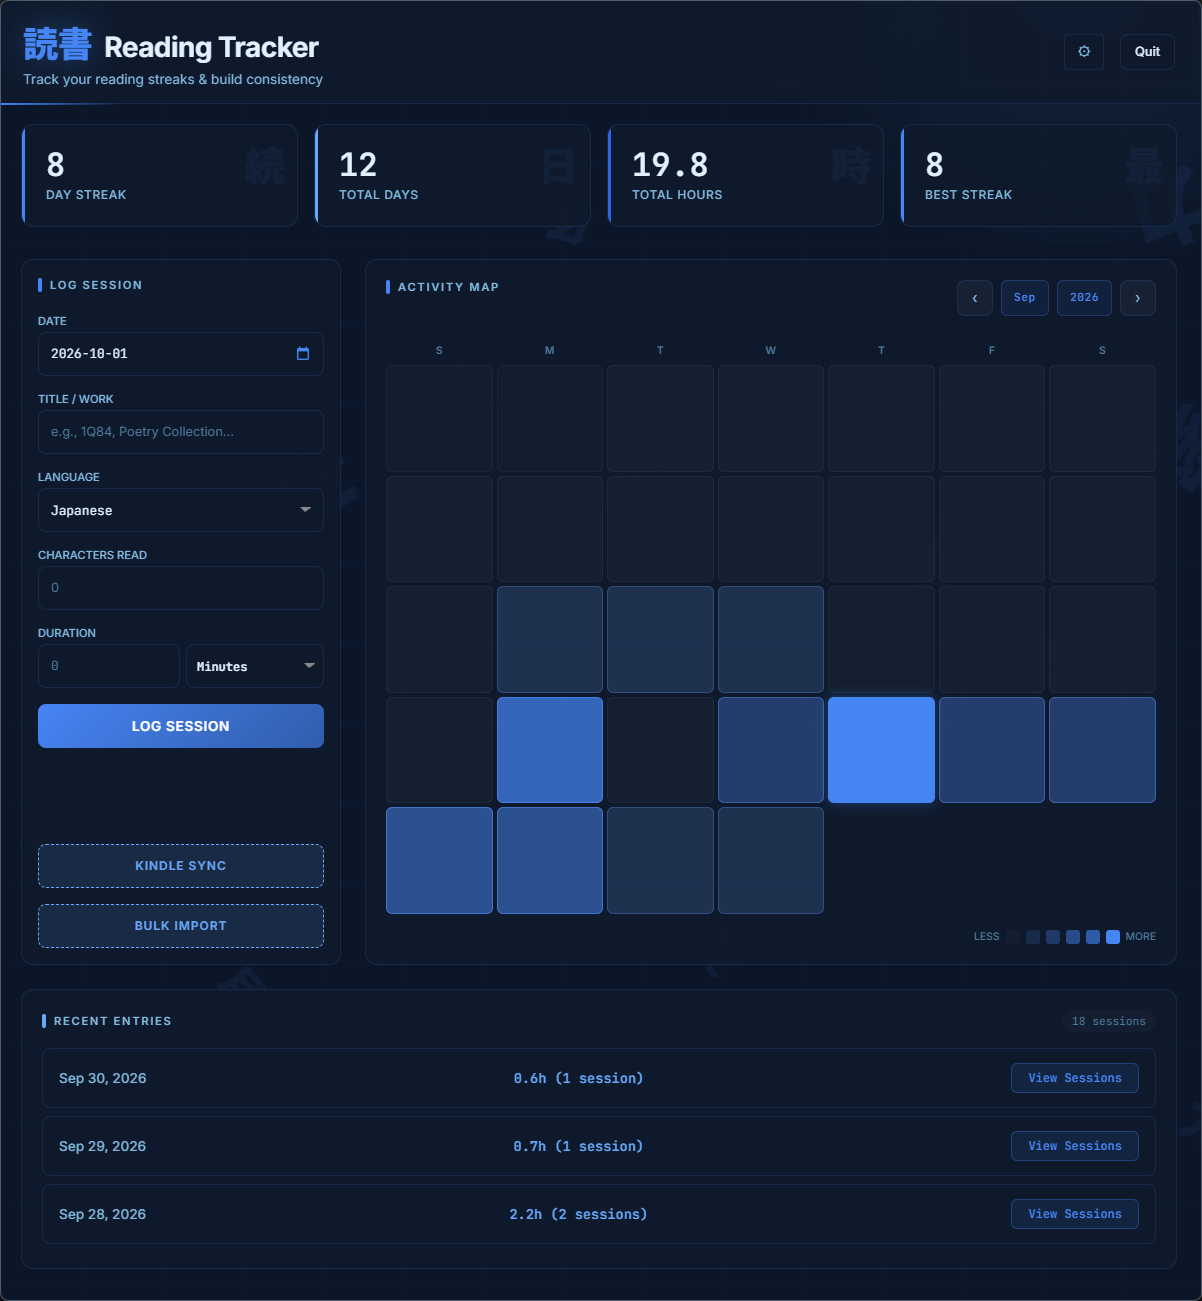
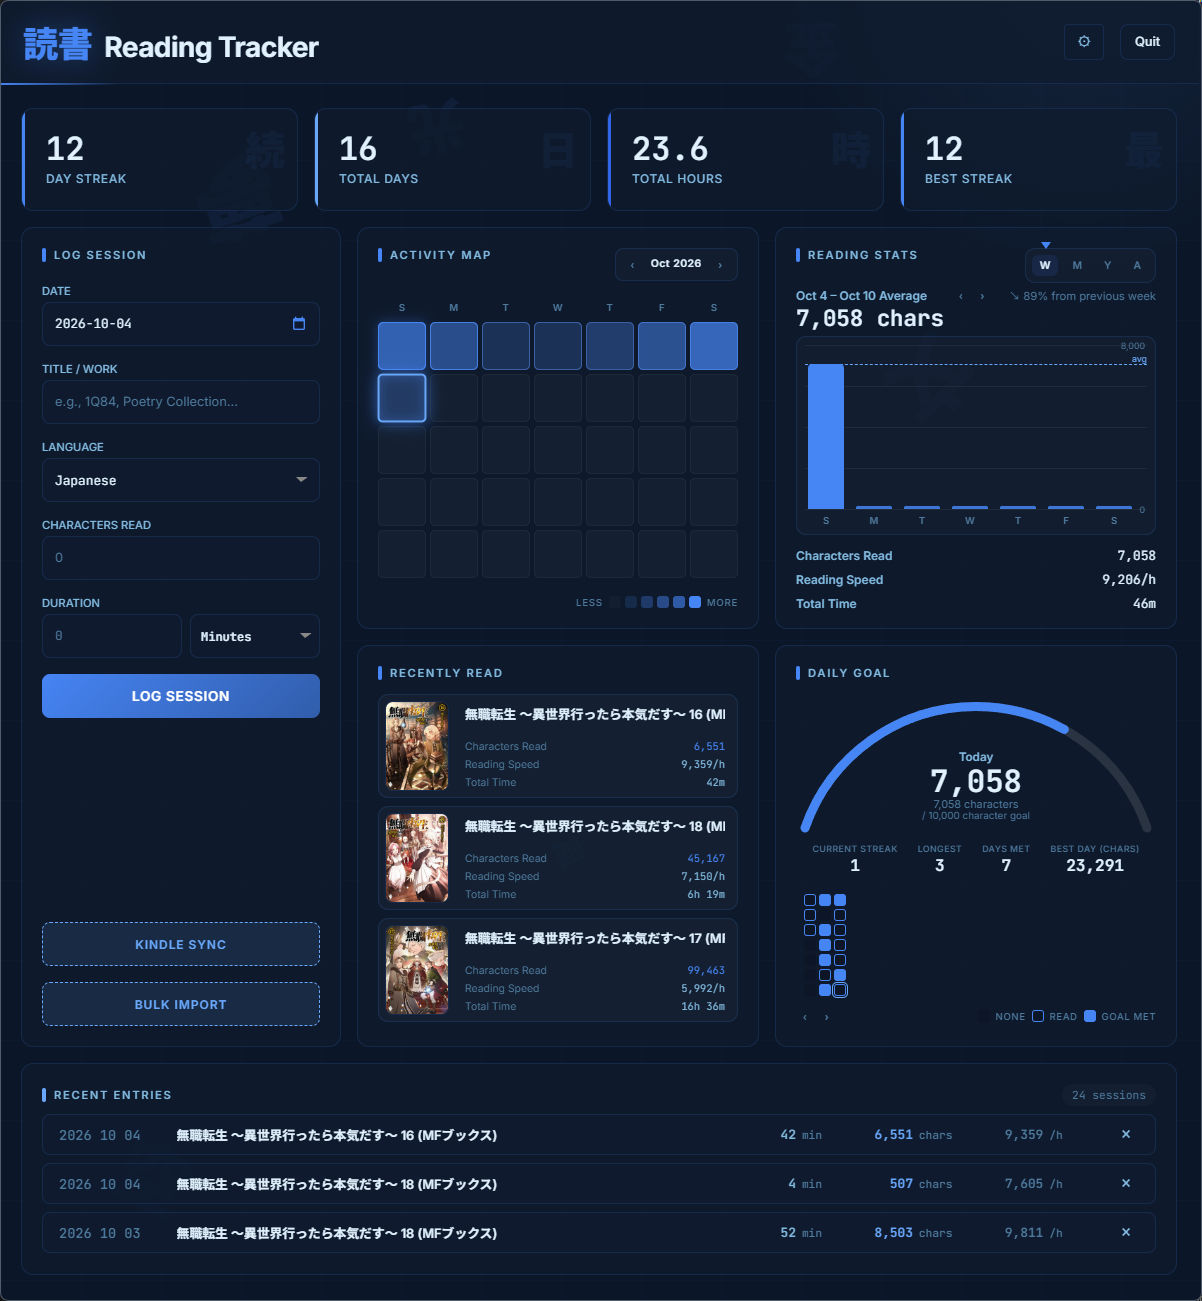
chore: update imgs, readme

diff --git a/styles.css b/styles.css
@@ -123,8 +123,8 @@ html.theme-sakura-dark {
     --accent-primary-glow: rgba(240, 133, 168, 0.3);
     --accent-secondary: #f4b8c8;
     --accent-secondary-glow: rgba(244, 184, 200, 0.2);
-    --accent-tertiary: #d4a843;
-    --accent-tertiary-glow: rgba(212, 168, 67, 0.2);
+    --accent-tertiary: #c2476e;
+    --accent-tertiary-glow: rgba(194, 71, 110, 0.15);
     --kanji-color: rgba(240, 133, 168, 0.06);
     --grid-color: rgba(240, 133, 168, 0.02);
     --glow-color: rgba(244, 154, 188, 0.07);
@@ -1798,7 +1798,7 @@ body.theme-sakura-light .month-arrow:hover {
 
 /* Base modal container - import modal aesthetic */
 .modal {
-    background: color-mix(in srgb, var(--bg-card) 70%, transparent);
+    background: color-mix(in srgb, var(--bg-card) 90%, transparent);
     border: 1px solid var(--border-color);
     border-radius: 16px;
     width: 90%;

diff --git a/README.md b/README.md
@@ -11,7 +11,7 @@ A minimal Electron desktop app for tracking reading sessions with SQLite storage
 
 ## Origin
 
-Little project started mostly as a test for the capabilities of Qwen 3.6 35B A3B, turned out pretty nice.
+Little project started mostly as a test for the capabilities of ~~Qwen 3.6 35B A3B~~*, turned out pretty nice. *Friendship ended with 3.6, now 3.8 Flash Next is my best friend
 
 At first I tried to use the built-in Kindle reading stats to make a reading streak plugin, only to discover the stats are completely broken for Japanese books. My monkey brain does like streak calendars and I do want to force myself to read more, so I still wanted to make something along that idea.
 
@@ -20,7 +20,7 @@ By manually placing `krs.start` and `krs.end` notes on the books I'm reading on 
 ## Functionalities
 
 - **Reading Session Tracking** — Log sessions by date, title, language, and duration
-- **Activity Heatmap** — Visualize reading streaks and habits over time
+- **Stats and also Stats** - Reading stats! Stats of your reading!!
 - **Bulk CSV Import** — Import multiple sessions at once via CSV with flexible column mapping
 - **Kindle Sync** — Pull sidecar and book data from a jailbroken Kindle via SSH and extract reading sessions
 - **Database Backup & Restore** — Export and import the SQLite database
@@ -75,9 +75,12 @@ npm run build:nsis
 
 - Windows: `%APPDATA%\reading-tracker\data.db`
 
-### Tech Stack
+### Acknowledgments
 
-- Electron — Desktop app shell
-- better-sqlite3 — Fast, local SQLite database
-- Vanilla JS + CSS — UI
-- Python - Kindle stuff
+[kindle-reading-dashboard](https://github.com/zevisvei/kindle-reading-dashboard) - Served as basis for almost the entire Kindle Sync logic.
+
+[KRDS](https://github.com/K-R-D-S/KRDS) - Handles the parsing of all Kindle sidecar data.
+
+[kaikozlov/kindle.koplugin](https://github.com/kaikozlov/kindle.koplugin) - I snitched their kfxlib folder!
+
+[Hoshi-Reader-Desktop](https://github.com/Manhhao/Hoshi-Reader-Desktop) - I snitched their stats layout ideas!
